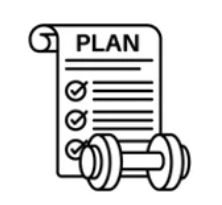
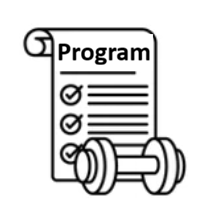
feat: enhance card views and templates with role-based access control and member details

Changed region(s): [[0.0878, 0.0878, 0.9366, 0.9366]]

diff --git a/services/fitnessclub/templates/exercise_card_view.html b/services/fitnessclub/templates/exercise_card_view.html
@@ -1,15 +1,18 @@
                 <div class="card h-100 shadow-sm">
                     {% if entity.card_view_fields.image_url %}
-                    <div class="img-wrapper" style="height: 80px; overflow: hidden; position: relative;">
-                        <img src="{{ entity.card_view_fields.image_url }}" 
-                             class="img-fluid w-100 h-100"
-                             style="object-fit: contain; object-position: center;"
-                             alt="{{ entity.card_view_fields.title }}">
-                    </div>
+                        <div class="img-wrapper" style="height: 80px; overflow: hidden; position: relative;">
+                            <img src="{{ entity.card_view_fields.image_url }}" 
+                                class="img-fluid w-100 h-100"
+                                style="object-fit: contain; object-position: center;"
+                                alt="{{ entity.card_view_fields.title }}">
+                        </div>
                     {% else %}
-                    <div class="d-flex align-items-center justify-content-center" style="height: 80px; background-color: #f8f9fa;">
-                        <i class="bi bi-image text-muted" style="font-size: 1.5rem;"></i>
-                    </div>
+                        <div class="img-wrapper" style="height: 80px; overflow: hidden; position: relative;">
+                            <img src="{{ url_for('static', filename='images/exercise.png') }}"
+                                class="img-fluid w-100 h-100"
+                                style="object-fit: contain; object-position: center;"                             
+                                alt="Exercise">
+                        </div>                    
                     {% endif %}
                     <div class="card-body d-flex flex-column p-3">
                         {% if entity_view_route %}
@@ -23,7 +26,7 @@
                                 <p class="card-title mb-2 text-truncate fw-semibold" style="font-size: 0.9rem;">{{ entity.card_view_fields.title }}</p>
                             </a>
                         {% else %}
-                            <p class="card-title mb-2 text-truncate fw-semibold" style="font-size: 0.9rem;">{{ entity.card_view_fields.title }}</p>
+                            <p class="card-title mb-0 text-truncate fw-semibold" style="font-size: 0.9rem;">{{ entity.card_view_fields.title }}</p>
                         {% endif %}
                         {% if entity.card_view_fields.subtitle %}
                             <p class="card-text small text-muted mb-1">{{ entity.card_view_fields.subtitle }}</p>
@@ -34,7 +37,7 @@
 
                         <div class="mt-auto d-flex justify-content-between align-items-center">
                             <small class="text-muted">
-                                <i class="bi bi-activity me-1"></i>Exercise
+                                <i class="bi bi-activity me-1"></i>{{ entity_action_label }}
                             </small>
                             {% if entity_action_route %}
                                 {% if entity_action_route_method %}

diff --git a/services/fitnessclub/views/program/templates/program_card_view.html b/services/fitnessclub/views/program/templates/program_card_view.html
@@ -1,10 +1,10 @@
-                <div class="card h-100 shadow-sm">
-                    <div class="d-flex align-items-center justify-content-center" style="height: 80px; background-color: #e8f5e8;">
+                <div class="card h-80 shadow-sm">
+                    <div class="img-wrapper" style="height: 60px; overflow: hidden; position: relative;">
                         <img src="{{ url_for('static', filename='images/program.png') }}" 
                              alt="Program" 
-                             style="height: 40px; width: auto;">
+                             style="height: 60px; width: auto;">
                     </div>
-                    <div class="card-body d-flex flex-column p-3">
+                    <div class="card-body d-flex flex-column p-1">
                         {% if entity_view_route %}
                             <a href="#"
                                 hx-get="{{ entity_view_route }}&key={{ entity.key }}"
@@ -19,16 +19,17 @@
                             <p class="card-title mb-2 text-truncate fw-semibold" style="font-size: 0.9rem;">{{ entity.card_view_fields.title }}</p>
                         {% endif %}
                         {% if entity.card_view_fields.subtitle %}
-                            <p class="card-text small text-muted mb-1">{{ entity.card_view_fields.subtitle }}</p>
+                            <p class="card-text small text-bold mb-1">{{ entity.card_view_fields.subtitle }}</p>
                         {% endif %}
                         {% if entity.card_view_fields.description %}
                             <p class="card-text small mb-2 flex-grow-1" style="display: -webkit-box; -webkit-line-clamp: 2; -webkit-box-orient: vertical; overflow: hidden;">{{ entity.card_view_fields.description }}</p>
                         {% endif %}
 
                         <div class="mt-auto d-flex justify-content-between align-items-center">
-                            <small class="text-muted">
-                                <i class="bi bi-calendar-check me-1"></i>Program
-                            </small>
+                            {# <small class="text-muted">
+                                <i class="bi bi-calendar-check me-1"></i>{{ entity_action_label }}
+                            </small> #}
+                            <small class="text-bold">{{ entity.card_view_fields.member_name }}</small>
                             {% if entity_action_route %}
                                 {% if entity_action_route_method %}
                                     {% set action_method = entity_action_route_method %}

diff --git a/services/fitnessclub/templates/workout_card_view.html b/services/fitnessclub/templates/workout_card_view.html
@@ -1,10 +1,11 @@
-                <div class="card h-100 shadow-sm">
-                    <div class="d-flex align-items-center justify-content-center" style="height: 80px; background-color: #e3f2fd;">
+                <div class="card h-80 shadow-sm">
+                    <div class="img-wrapper" style="height: 60px; overflow: hidden; position: relative;">
+                    <!-- <div class="d-flex align-items-center justify-content-center" style="height: 60px; background-color: #e3f2fd;"> -->
                         <img src="{{ url_for('static', filename='images/exercise_workout.png') }}" 
                              alt="Workout" 
-                             style="height: 40px; width: auto;">
+                             style="height: 60px; width: auto;">
                     </div>
-                    <div class="card-body d-flex flex-column p-3">
+                    <div class="card-body d-flex flex-column p-1">
                         {% if entity_view_route %}
                             <a href="#"
                                 hx-get="{{ entity_view_route }}&key={{ entity.key }}"
@@ -27,7 +28,7 @@
 
                         <div class="mt-auto d-flex justify-content-between align-items-center">
                             <small class="text-muted">
-                                <i class="bi bi-heart-pulse me-1"></i>Workout
+                                <i class="bi bi-heart-pulse me-1"></i>{{ entity_action_label }}
                             </small>
                             {% if entity_action_route %}
                                 {% if entity_action_route_method %}

diff --git a/services/fitnessclub/static/dialog.js b/services/fitnessclub/static/dialog.js
@@ -19,7 +19,7 @@
   // Remove dialog content after hiding
   htmx.on("hidden.bs.modal", () => {
     console.log("Modal hidden, removing content");
-    elem =  document.getElementById("dialog");
+    elem =  document.getElementById("modals-here");
     if (elem) elem.innerHTML = "";
   })
 })()

diff --git a/services/fitnessclub/views/program/templates/_program_workouts.html b/services/fitnessclub/views/program/templates/_program_workouts.html
@@ -1,5 +1,5 @@
 <div class="card mb-3">
-
+Workouts in this program:
     <ul class="list-group list-group-flush workout-list"
         data-section="workouts">
 

diff --git a/common/fitness/active_fitness_registry.py b/common/fitness/active_fitness_registry.py
@@ -3,7 +3,7 @@ from flask import request, url_for
 from common.entity_store import EntityObject
 from common.fitness.entity_constants import PROGRAM_ENTITY_NAME, WORKOUT_ENTITY_NAME
 from common.fitness.member_program_entity import MemberProgramEntity
-from common.fitness.member_entity import MemberEntity
+from common.fitness.member_entity import MemberEntity, get_member_name_from_member_id
 from common.fitness.exercise_entity import ExerciseEntity, ExerciseReviewEntity, exercise_entity_filter_term, render_exercise_popup_viewer_html
 from common.fitness.exercise_entity import exercise_filters
 from common.fitness.member_entity import MemberEntity
@@ -44,10 +44,10 @@ editable_entities = {
     PROGRAM_ENTITY_NAME : { 
                         "listing_view_fields": ["name", "start_date", "end_date"],
                         "card_view_fields": { "title" : lambda e: e['name'] if 'name' in e else "",
-                                              "subtitle" : lambda e: (("Start Date: " + (e['start_date'] if 'start_date' in e and e['start_date'] else "?")) + \
-                                                                      (" End Date: " + (e['end_date'] if 'end_date' in e and e['end_date'] else "?"))),
+                                              "subtitle" : lambda e: (("" + (e['start_date'] if 'start_date' in e and e['start_date'] else "?")) + \
+                                                                      (" to " + (e['end_date'] if 'end_date' in e and e['end_date'] else "?"))),
                                               "image_url" : None,
-                                              "description" : lambda e: ""
+                                              "member_name" : lambda e: get_member_name_from_member_id(e['member_id']) if 'member_id' in e else "",
                                              }                        
                     },
     WORKOUT_ENTITY_NAME : { 

diff --git a/services/fitnessclub/views/workouts/workout_routes.py b/services/fitnessclub/views/workouts/workout_routes.py
@@ -671,6 +671,7 @@ def builder_workouts_listing(context=None):
         entity_action_icon='bi-plus',  
         entity_action_label='Add Workout',
         results_target_container=target if target else 'results-area',
+        entity_card_view_html='workout_card_view.html',
         context=context)
 
 # ── Main exercise reviewer View ─────────────────────────────────────────────
